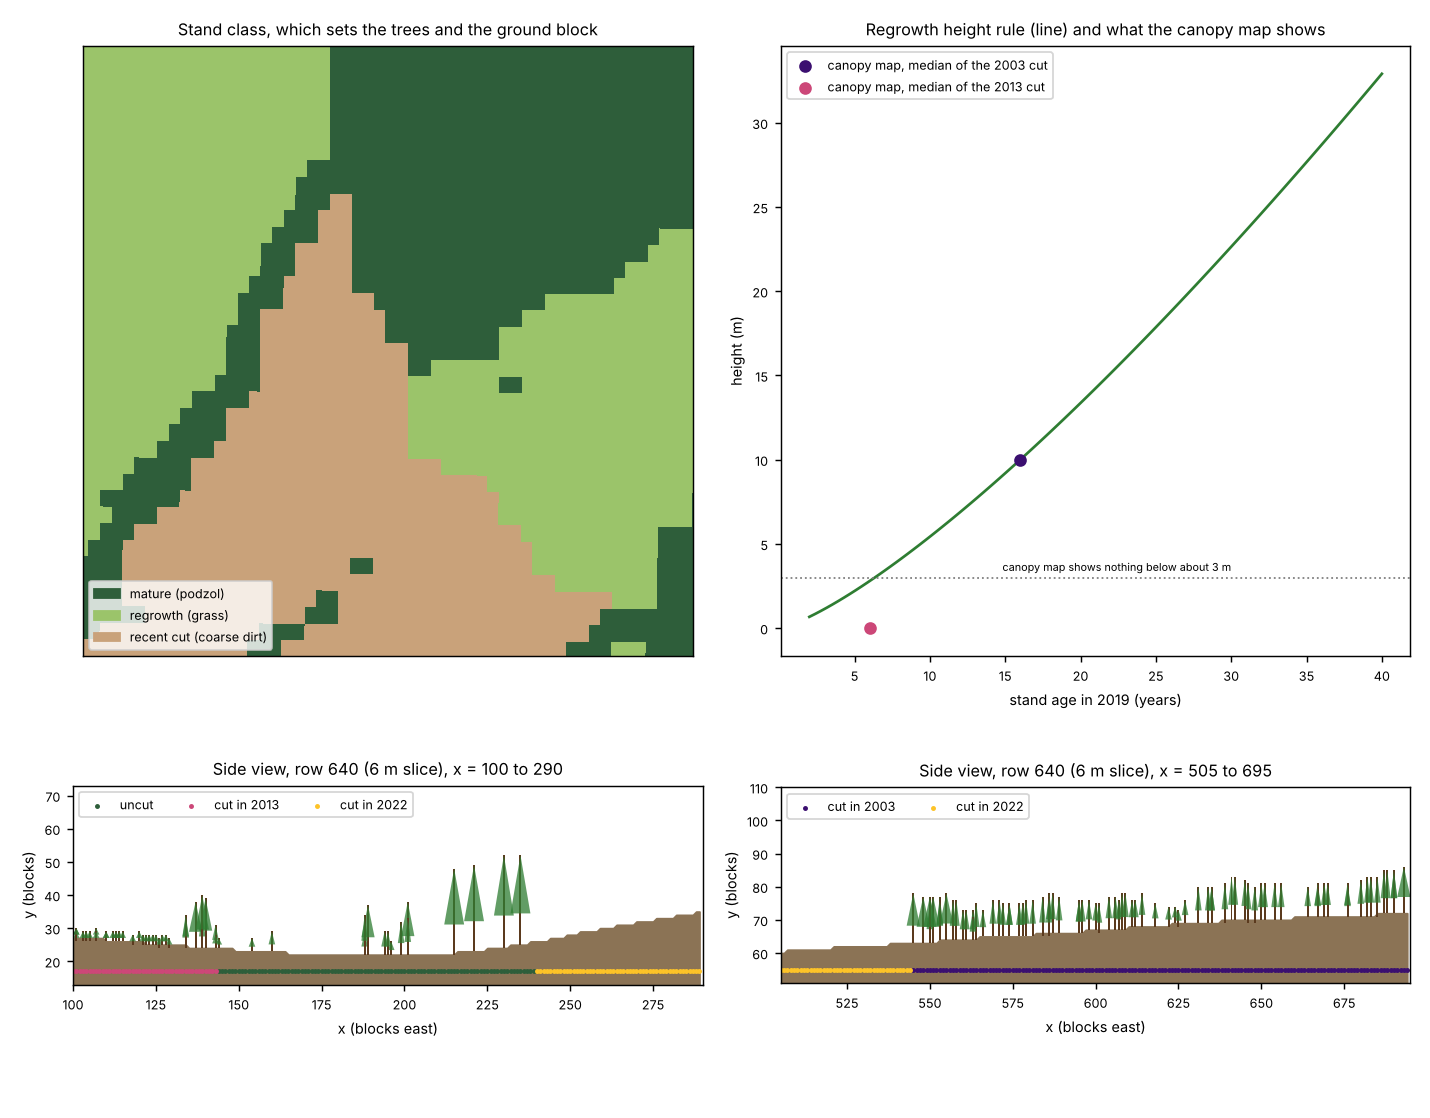
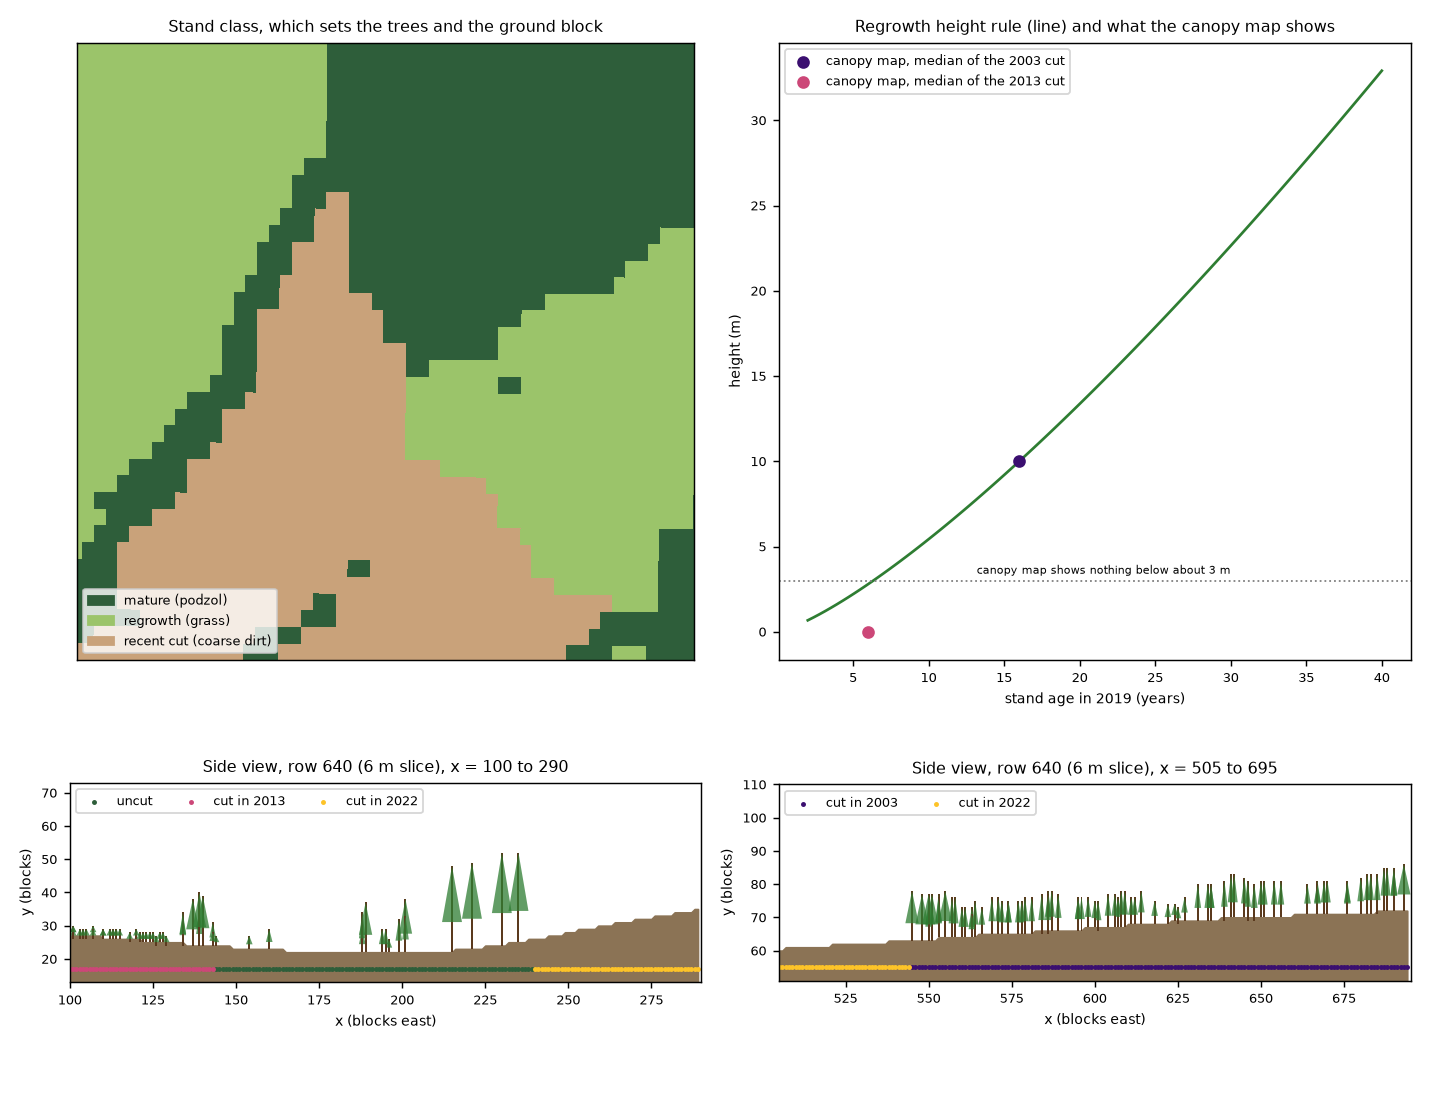
add ground theming

diff --git a/README.md b/README.md
@@ -221,3 +221,62 @@ It's worth being clear that the result is a representation of the canopy height 
 The block grid structure of Minecraft limits how accurately you can reflect real stand conditions, but the simple rules used in ```05_place_trees.py``` can be modified. It would be worth experimenting with other placement rules that are more biologically realistic. 
 
 In total the table describes about 0.7 million blocks of trunk and leaves, under one block per ground column on average. That is a light load for Minecraft.
+
+
+## 6. Treat each stand by its age
+
+We are nearly ready to export the world, but let's do a little more styling to improve its visuals first. The previous script treated every patch of forest the same way, but real world forests differ in look and structure based on their age. Our window holds old uncut forest, two stands that grew back after earlier cuts, and ground that was cut after the canopy imagery was taken. Each looks different in Minecraft, and each needs its own trees and its own ground block.
+
+Our next script will apply some additional visual tweaks, so that these differences are obvious:
+```
+python scripts/06_stands_and_ground.py
+```
+
+### Sort the window into three classes
+
+The forest-loss layer gives the year each cell was cut. The canopy imagery is from about 2019. That gives three classes:
+
+| Class | Rule | Ground block |
+|---|---|---|
+| Mature | never cut in the loss record | podzol |
+| Regrowth | cut in 2019 or earlier | grass block |
+| Recent cut | cut after 2019 | coarse dirt |
+
+Podzol is the dark forest floor under conifers in Minecraft, grass suits young regrowth, and coarse dirt reads as bare disturbed soil. The script saves the class of every column in `out/ground.npy`. Chunk 7 turns the classes into blocks.
+
+![Stand classes, the regrowth height rule, and two side views](docs/06_stands.png)
+
+*Figure 5. Top left: the three classes. Top right: how tall regrowth is, by age. Bottom: side views across stand boundaries along one row.*
+
+### Give regrowth a height and a density
+
+Regrowth needs two numbers, and the canopy map supplies only part of the answer. Where the map shows a tree 3 m or taller, we use that height. Where it shows nothing, we still know the stand's age, so we use a growth curve.
+
+The two regrowth stands show why we need it. The stand cut in 2003 was 16 years old in 2019, and the canopy map gives a median height of 10 m. The stand cut in 2013 was 6 years old, and the canopy map shows almost nothing, since only 1% of its cells reach 3 m. The model cannot see trees that small, but they are there.
+
+The growth curve in the top-right panel passes through the 2003 point and is shaped so that a 6-year-old stand comes out at 2.8 m, just under what the map can see.
+
+```python
+height = 10.0 * (age / 16) ** 1.3
+```
+
+Young stands are also crowded. We give each stand a number of stems per hectare that falls with age: 1,100 at age 5, 600 at age 20, 400 at age 40, and 280 in uncut forest. The script lays down a candidate tree in every 3 m square, then keeps a random share of them to match the stand's density.
+
+### Check it
+
+```
+stand          area %  trees/ha  median h    ground block
+mature           33.2       271        15          podzol
+cut 2003         17.7       714        10     grass_block
+cut 2013         20.3      1060         3     grass_block
+cut 2021          1.5         0         -     coarse_dirt
+cut 2022         26.7         0         -     coarse_dirt
+```
+
+The window now holds 45,848 trees, about 437 per hectare. That is about 1.1 million blocks of trunk and leaves, roughly double chunk 5, almost all of it from the young stands.
+
+In the side views, the 2013 stand is a thicket of 3-block saplings next to old trees 20 to 30 blocks tall. In the right-hand view, the 2022 clearcut meets the 2003 stand, whose trees are about 10 blocks tall.
+
+### Be honest about what is guessed
+
+The one measured thing here is the 2003 point on the growth curve. The exponent, the stem densities and the ground blocks are our assumptions. The densities are typical for conifer regrowth, but they are not taken from a survey of this site. If you know a local source, replace the numbers in the `DENSITY_BY_AGE` table at the top of the script and rerun.
